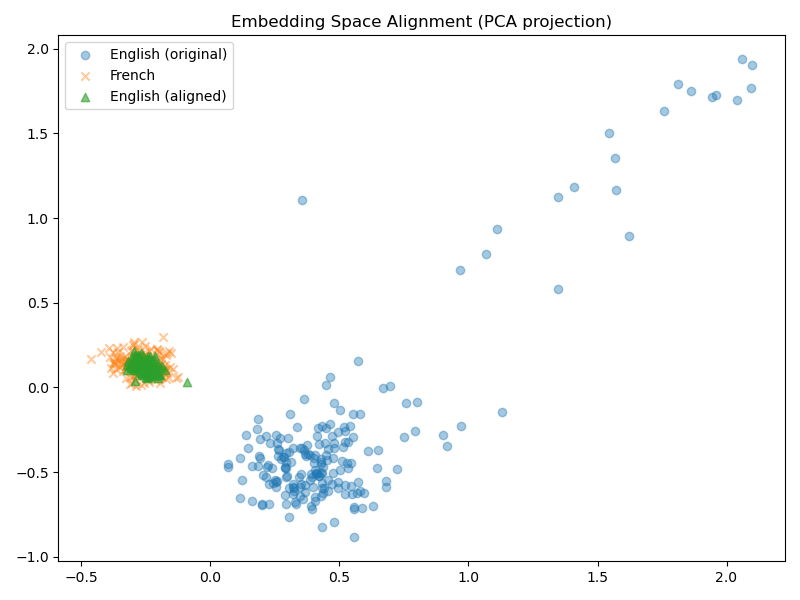
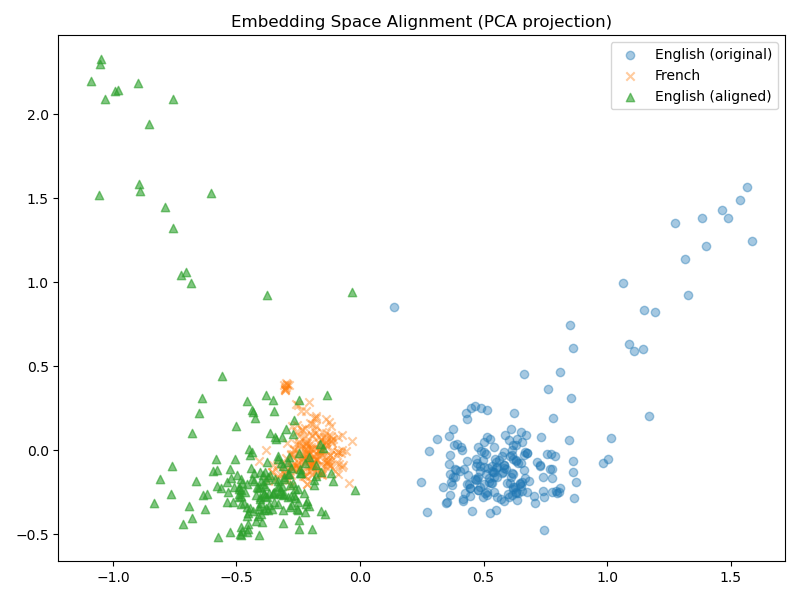
Add orthogonal Procrustes mapping for bilingual embedding alignment

diff --git a/src/main.py b/src/main.py
@@ -3,7 +3,7 @@ import os
 import matplotlib.pyplot as plt
 
 from src.data_utils import get_dict, get_matrices
-from src.model_utils import align_embeddings, translate_word
+from src.model_utils import align_embeddings, translate_word, learn_orthogonal_mapping
 from src.evaluate import test_vocabulary
 from src.visualize import plot_embedding_alignment
 
@@ -24,21 +24,31 @@ def main():
     X_train, Y_train = get_matrices(en_fr_train, fr_embeddings, en_embeddings)
 
     # Train mapping
-    R, losses = align_embeddings(X_train, Y_train,
-                         train_steps=400,
-                         learning_rate=0.8,
-                         verbose=True)
+    USE_ORTHOGONAL = True
+    if USE_ORTHOGONAL:
+        print("Learning mapping with Orthogonal Procrusters (closed-form) ...")
+        R = learn_orthogonal_mapping(X_train, Y_train)
+        losses = None
+    else:
+        print("Learning mapping with gradient descent...")
+        R, losses = align_embeddings(X_train, Y_train,
+                            train_steps=400,
+                            learning_rate=0.8,
+                            verbose=True)
     
 
-    # Save loss curve
-    plt.figure()
-    plt.plot(losses)
-    plt.xlabel("Iteration")
-    plt.ylabel("Loss")
-    plt.title("Training Loss for Embedding Alignment")
-    plt.tight_layout()
-    plt.savefig("results/loss_curve.png")
-    plt.close()
+    # Plot loss curve only if we used gradient descent
+    if losses is not None:
+        os.makedirs("results", exist_ok=True)
+        plt.figure()
+        plt.plot(losses)
+        plt.xlabel("Iteration")
+        plt.ylabel("Loss")
+        plt.title("Training Loss for Embedding Alignment")
+        plt.tight_layout()
+        plt.savefig("results/loss_curve.png")
+        plt.close()
+
     
     
     # Evaluate
@@ -59,8 +69,15 @@ def main():
 
     # Save a small report
     with open("results/report.txt", "w", encoding="utf-8") as f:
-        f.write(f"Final loss: {losses[-1]:.4f}\n")
+        if losses is not None:
+            f.write(f"Final loss: {losses[-1]:.4f}\n")
+            f.write("Training method: Gradient descent\n")
+        else:
+            f.write("Final loss: N/A (Orthogonal Procrustes closed-form solution)\n")
+            f.write("Training method: Orthogonal Procrustes (SVD-based)\n")
+
         f.write(f"Accuracy on test dictionary: {acc:.3f}\n")
+
 
     # Demo loop
     while True:

diff --git a/src/model_utils.py b/src/model_utils.py
@@ -99,3 +99,30 @@ def translate_word(english_word: str,
             best_word = fr_word
 
     return best_word
+
+def learn_orthogonal_mapping(X: np.ndarray, Y: np.ndarray) -> np.ndarray:
+    """
+    Learn an orthogonal transformation matrix R that best aligns X to Y
+    in the least squares sense, using the Orthogonal Procrustes solution.
+
+    Solves:
+        R* = argmin_R || X R - Y ||_F
+    subject to:
+        R^T R = I  (R is orthogonal)
+
+    This has a closed-form solution:
+        R = U V^T
+    where:
+        U, Σ, V^T = SVD(X^T Y)
+    """
+    
+    # Compute cross-covariance between X and Y
+    M = X.T @ Y # shape: (d, d)
+    
+    # singular value decomposition
+    U, _, Vt = np.linalg.svd(M)
+    
+    # optimal orthogonal mapping
+    R = U @ Vt # shape: (d, d)
+    
+    return R
